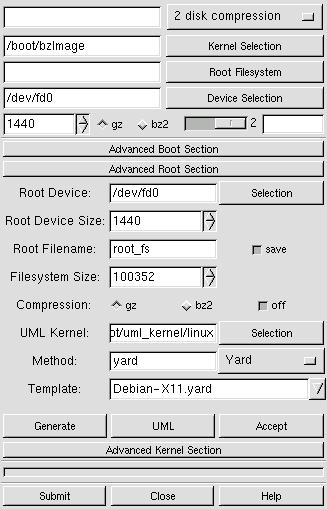
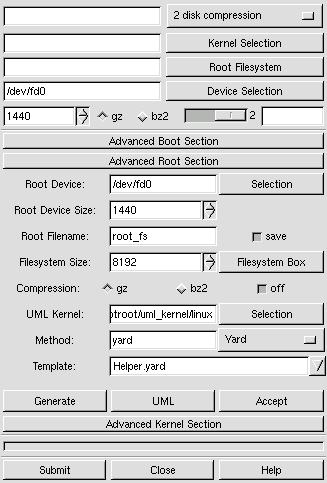
Adds information about the new filesystem box button.

diff --git a/doc/html/index.html b/doc/html/index.html
@@ -3,7 +3,7 @@
 <body  text="#000000" bgcolor="#FFFFFF" link="#0000EF" vlink="#51188E"
 alink="#FF0000">
 
-<center>$Id: index.html,v 1.83 2002/01/15 18:23:32 freesource Exp $</center>
+<center>$Id: index.html,v 1.84 2002/01/16 14:10:05 freesource Exp $</center>
 
 <p>
 
@@ -211,6 +211,12 @@ Accept button is pressed.</p>
 
 "Filesystem Size"&nbsp;&nbsp; Root Methods make the filesystem the size 
 which is specified here.</p>
+
+<p>
+
+"Filesystem Box"&nbsp;&nbsp;Allows the filesystem type, uml behavior, and
+permissions to be controlled.&nbsp;&nbsp;There is a lot more information about
+this box in the "Filesystem Box" section.</p>
 
 <p>
 
